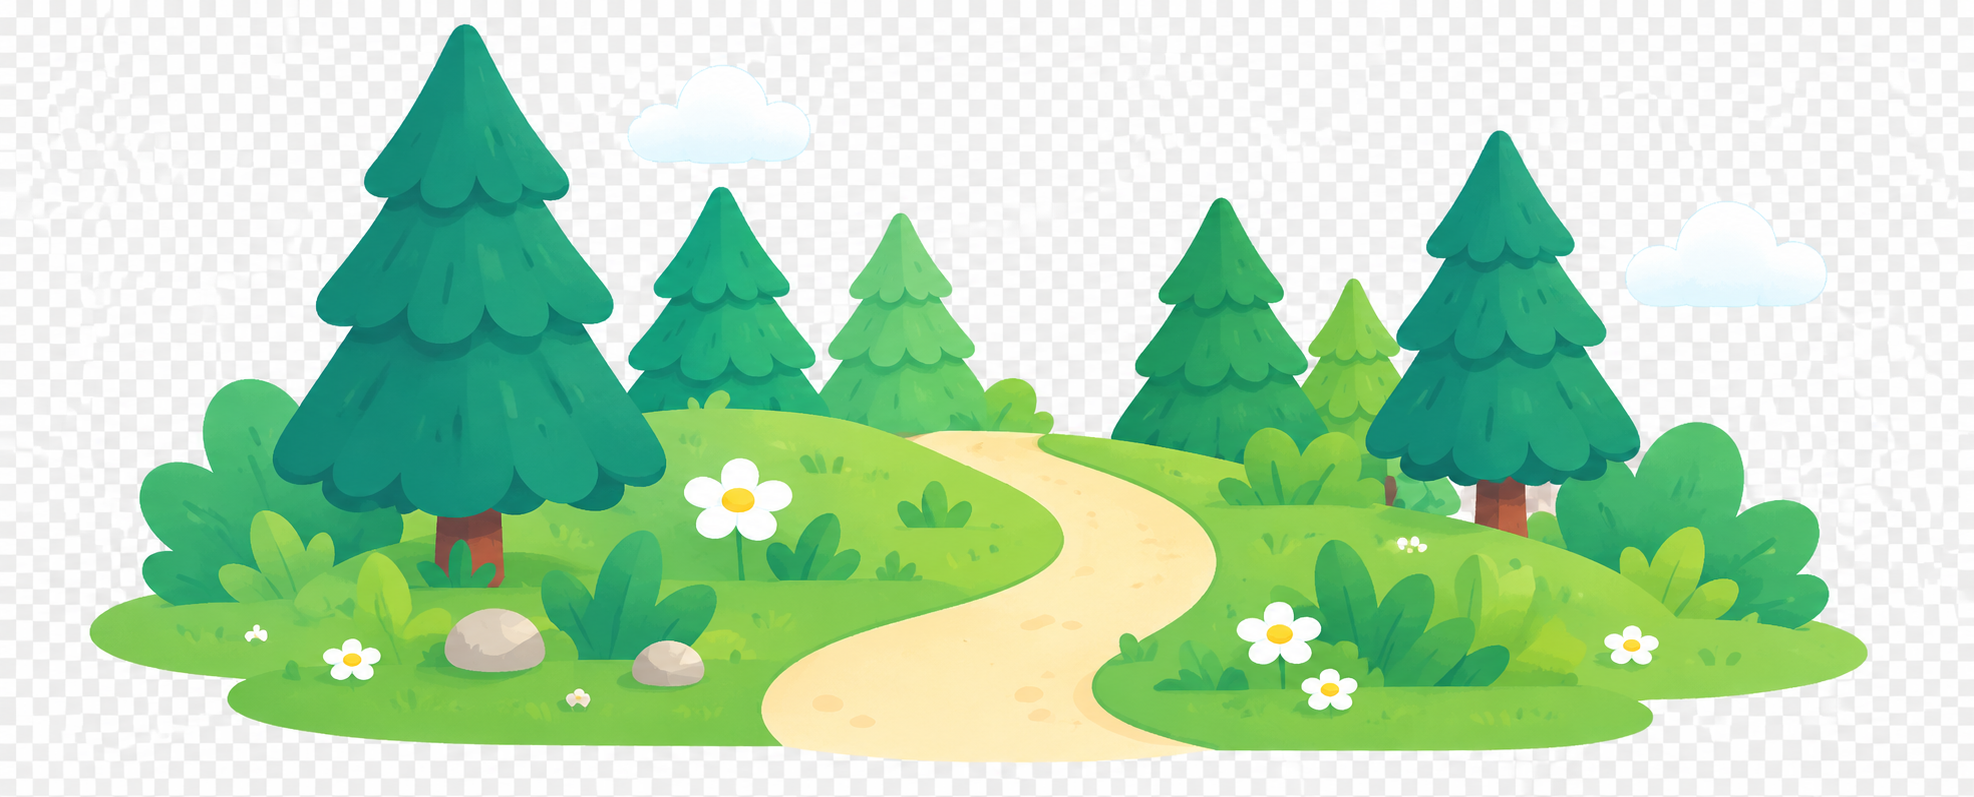
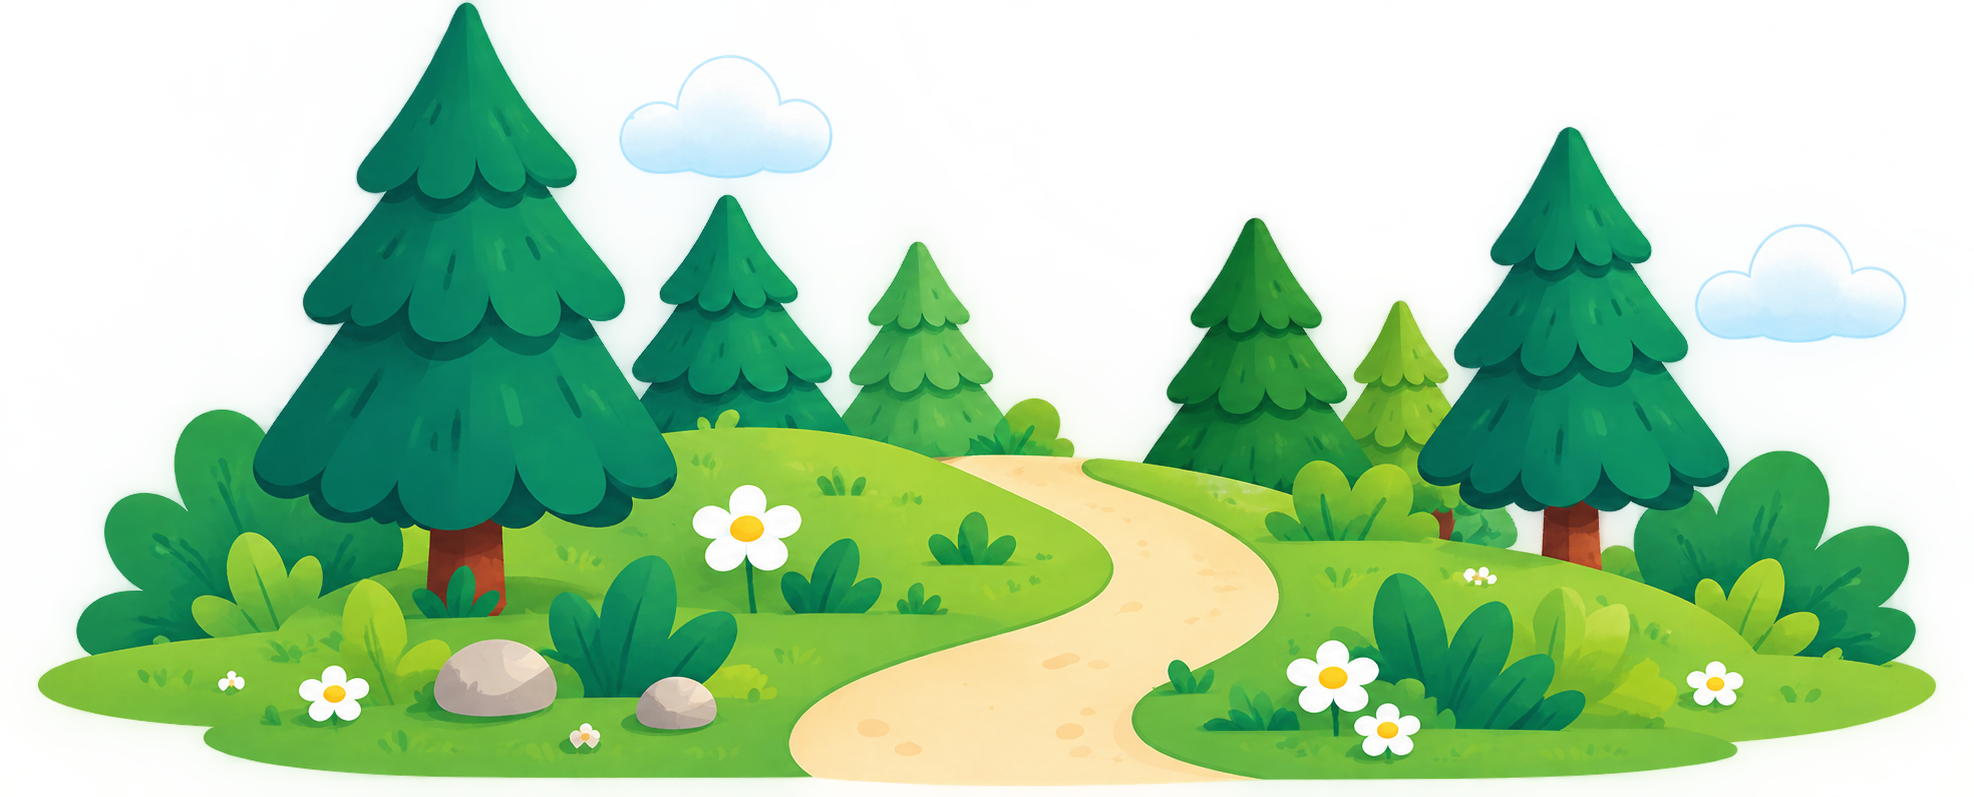
Updated non-see-through-images and changed wording

diff --git a/app/page.tsx b/app/page.tsx
@@ -41,7 +41,7 @@ export default function Home() {
             <div className="relative z-10">
               <span className="inline-flex items-center gap-2 rounded-full bg-[#CFF0DB] px-4 py-2 text-sm font-extrabold text-[#14775F] sm:text-base">
                 <span aria-hidden="true">✨</span>
-                Matte för nyfikna barn
+                Matematik för nyfikna barn
               </span>
 
               <h1 className="mt-5 text-4xl font-black leading-[1.08] tracking-tight text-[#12584D] sm:text-5xl lg:text-6xl xl:text-7xl">
@@ -102,7 +102,7 @@ export default function Home() {
             </h2>
 
             <p className="mx-auto mt-2 max-w-xl text-base leading-7 text-[#527C75] sm:text-lg">
-              Välj en värld och upptäck hur roligt matte kan vara.
+              Välj en värld och upptäck hur roligt matematik kan vara.
             </p>
           </header>
 
